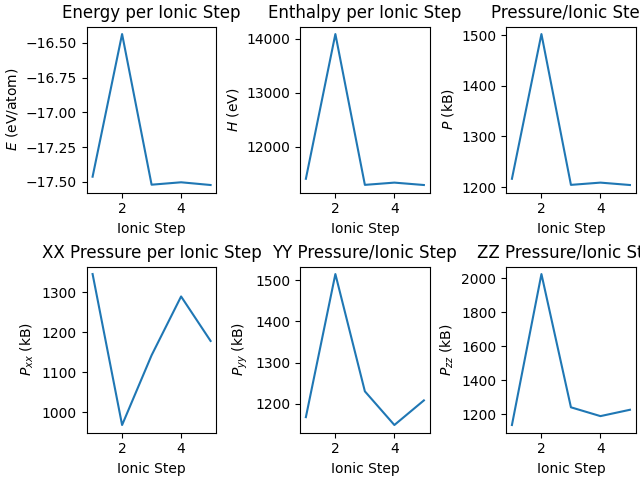
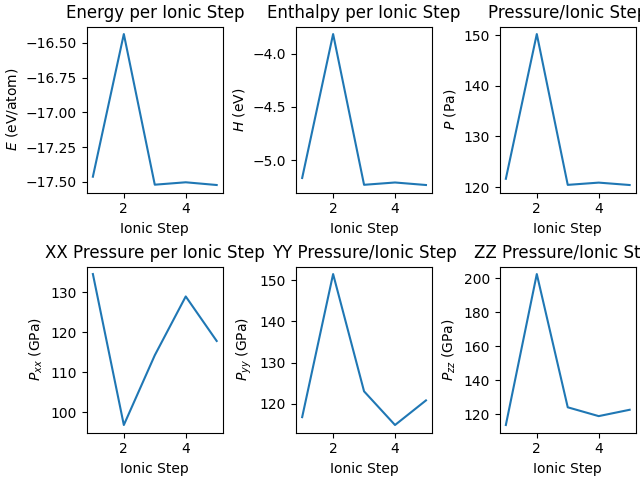
fixed units in T2

diff --git a/tutorials/t3_energy_vs_volume.py b/tutorials/t3_energy_vs_volume.py
@@ -1,0 +1,133 @@
+import numpy as np
+import matplotlib.pyplot as plt
+
+
+def column_text_read(file_name):
+    try:
+        file = open(file_name)
+    except OSError as error:
+        print(error)
+        return
+
+    content = file.readlines()
+    data = np.zeros([9, (len(content))], float)
+    n = 0
+
+    for line in content:
+        elements = line.split()
+        data[0, n] = float(elements[0])
+        data[1, n] = float(elements[1])
+        data[2, n] = float(elements[2])
+        data[3, n] = float(elements[3])
+        data[4, n] = float(elements[4])
+        data[5, n] = float(elements[5])
+        data[6, n] = float(elements[6])
+        data[7, n] = float(elements[7])
+        data[8, n] = float(elements[8])
+        n += 1
+    return data
+
+
+def energy_change(data):
+    change_list = []
+    for i in np.linspace(0, len(data[1])-1, 12):   # (0, ionic step - 1, ionic step)
+        if i < 11:   # ionic step - 1
+            change = data[1][int(i+1)] - data[1][int(i)]
+            change_list.append(change)
+        if i == 11:  # ionic step
+            continue
+    return change_list
+
+
+def enthalpy_check(data):  # units dont match
+    energy = np.array(data[1])
+    pressure = np.array(data[2])
+    volume = np.array(data[3])
+    theoretical_enthalpy_array = energy + pressure * volume
+    calculated_enthalpy = data[8]
+    return theoretical_enthalpy_array, calculated_enthalpy
+
+
+def plot_data(data, display_graph):
+    ionic_step_data = data[0]
+    energy_data = data[1]
+    pressure_data = data[2]
+    volume_data = data[4]
+    xx_data = data[5]
+    yy_data = data[6]
+    zz_data = data[7]
+    enthalpy_data = data[8]
+    plot_list_step = [[energy_data, enthalpy_data, pressure_data, volume_data, enthalpy_data],
+                      [xx_data, yy_data, zz_data, energy_data, pressure_data]]
+    plot_list_volume = [energy_data, enthalpy_data, pressure_data]
+    figure, axes = plt.subplots(nrows=2, ncols=5, layout='constrained')
+    for row_index, row in enumerate(plot_list_step):
+        for column_index, column in enumerate(row):
+
+
+            axes[row_index][column_index].plot(ionic_step_data, column)  # setting x axis, go across first then next line
+            axes[row_index][column_index].set_xlabel('Ionic Step')
+            axes[0][0].set_ylabel(r'$E$ (eV/atom)')
+            axes[0][0].set_title('Energy per Ionic Step')
+            axes[0][1].set_ylabel(r'$H$ (eV)')
+            axes[0][1].set_title('Enthalpy per Ionic Step')
+            axes[0][2].set_ylabel(r'$P$ (kB)')
+            axes[0][2].set_title('Pressure/Ionic Step')
+            axes[0][3].set_ylabel(r'$V$ ($A$)')
+            axes[0][3].set_title('Volume/Ionic Step')
+            axes[1][0].set_ylabel(r'$P_{xx}$ (kB)')
+            axes[1][0].set_title('XX Pressure per Ionic Step')
+            axes[1][1].set_ylabel(r'$P_{yy}$ (kB)')
+            axes[1][1].set_title('YY Pressure/Ionic Step')
+            axes[1][2].set_ylabel(r'$P_{zz}$ (kB)')
+            axes[1][2].set_title('ZZ Pressure/Ionic Step')
+
+            axes[0][4].plot(volume_data,enthalpy_data)  # setting x axis
+            axes[0][4].set_xlabel('$V$ $A$/atom')
+            axes[1][3].plot(volume_data, energy_data)  # setting x axis
+            axes[1][3].set_xlabel('$V$ $A$/atom')
+            axes[1][4].plot(volume_data, pressure_data)  # setting x axis
+            axes[1][4].set_xlabel('$V$ $A$/atom')
+
+            axes[0][4].set_ylabel(r'$H$ (eV)')
+            axes[0][4].set_title('Enthalpy per Volume')
+            axes[1][3].set_ylabel(r'$E$ (eV)')
+            axes[1][3].set_title('Energy per Volume')
+            axes[1][4].set_ylabel(r'$P$ (kB)')
+            axes[1][4].set_title('Pressure per Volume')
+
+            """
+    for row_index, row in enumerate(plot_list_volume):
+        axes[row_index].plot(volume_data, row)
+        axes.set_xlabel('$V$ $A$/atom')
+        axes[0][4].set_ylabel(r'$H$ (eV)')
+        axes[0][4].set_title('Enthalpy per Volume')
+        axes[1][3].set_ylabel(r'$E$ (eV)')
+        axes[1][3].set_title('Energy per Volume')
+        axes[1][4].set_ylabel(r'$P$ (kB)')
+        axes[1][4].set_title('Pressure per Volume')
+        ~~
+        for column in enumerate(row):
+            
+            axes[row_index1][column_index1].plot(volume_data, column1)  # setting x axis
+            axes[row_index1][column_index1].set_xlabel('$V$ $A$/atom')
+            axes[0][4].set_ylabel(r'$H$ (eV)')
+            axes[0][4].set_title('Enthalpy per Volume')
+            axes[1][3].set_ylabel(r'$E$ (eV)')
+            axes[1][3].set_title('Energy per Volume')
+            axes[1][4].set_ylabel(r'$P$ (kB)')
+            axes[1][4].set_title('Pressure per Volume')
+"""
+    #plt.tight_layout()
+    if display_graph:
+        plt.show()
+    elif not display_graph:
+        plt.savefig("t3_energy_vs_volume.png")
+    return
+
+
+#print(column_text_read('t3_data'))
+#print(energy_change(column_text_read('t3_data')))
+print(plot_data(column_text_read('t3_data'), True),
+      enthalpy_check(column_text_read('t3_data'))
+      )

diff --git a/tutorials/t2_plot_enthalpy_pressure_ionic_step.py b/tutorials/t2_plot_enthalpy_pressure_ionic_step.py
@@ -39,19 +39,19 @@ def energy_change(data):
 
 def enthalpy(data):
     energy = np.array(data[1])
-    pressure = np.array(data[2])
-    volume = np.array(data[3])
-    enthalpy_array = energy + pressure * volume
-    return enthalpy_array
+    pressure = np.array(data[2])*10**8
+    volume = np.array(data[3])*10**-30
+    enthalpy_array = energy + (pressure * volume) * 6.242*10**18
+    return enthalpy_array / 2
 
 
 def plot_data(data, enthalpy_data, display_graph):
     ionic_step_data = data[0]
     energy_data = data[1]
-    pressure_data = data[2]
-    xx_data = data[4]
-    yy_data = data[5]
-    zz_data = data[6]
+    pressure_data = data[2]*0.1
+    xx_data = data[4]*0.1
+    yy_data = data[5]*0.1
+    zz_data = data[6]*0.1
     plot_list = [[energy_data, enthalpy_data, pressure_data], [xx_data, yy_data, zz_data]]
     figure, axes = plt.subplots(nrows=2, ncols=3, layout='constrained')
     for row_index, row in enumerate(plot_list):
@@ -62,13 +62,13 @@ def plot_data(data, enthalpy_data, display_graph):
             axes[0][0].set_title('Energy per Ionic Step')
             axes[0][1].set_ylabel(r'$H$ (eV)')
             axes[0][1].set_title('Enthalpy per Ionic Step')
-            axes[0][2].set_ylabel(r'$P$ (kB)')
+            axes[0][2].set_ylabel(r'$P$ (Pa)')
             axes[0][2].set_title('Pressure/Ionic Step')
-            axes[1][0].set_ylabel(r'$P_{xx}$ (kB)')
+            axes[1][0].set_ylabel(r'$P_{xx}$ (GPa)')
             axes[1][0].set_title('XX Pressure per Ionic Step')
-            axes[1][1].set_ylabel(r'$P_{yy}$ (kB)')
+            axes[1][1].set_ylabel(r'$P_{yy}$ (GPa)')
             axes[1][1].set_title('YY Pressure/Ionic Step')
-            axes[1][2].set_ylabel(r'$P_{zz}$ (kB)')
+            axes[1][2].set_ylabel(r'$P_{zz}$ (GPa)')
             axes[1][2].set_title('ZZ Pressure/Ionic Step')
     #plt.tight_layout()
     if display_graph:
@@ -80,4 +80,5 @@ def plot_data(data, enthalpy_data, display_graph):
 
 #print(column_text_read('t2_data'))
 #print(energy_change(column_text_read('t2_data')))
+print(enthalpy(column_text_read('t2_data')))
 print(plot_data(column_text_read('t2_data'), enthalpy(column_text_read('t2_data')), False))  # True for graph, False to save png
